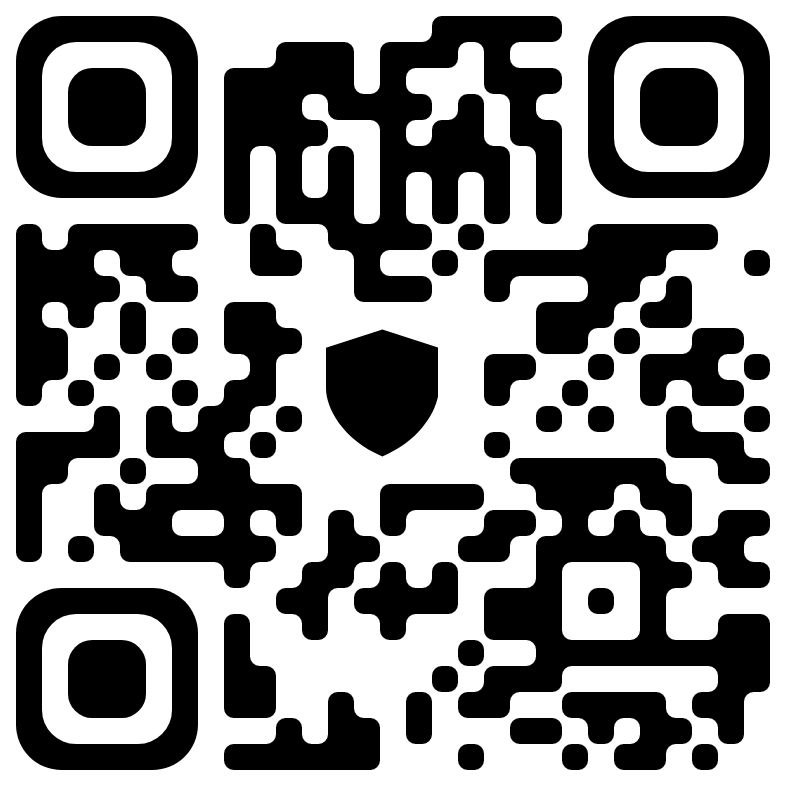
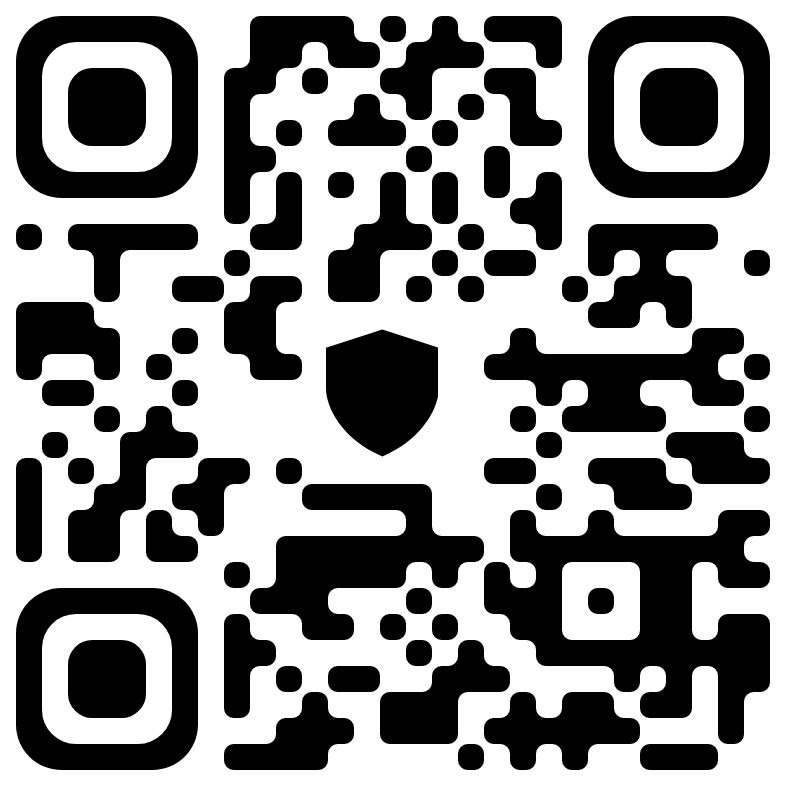
Updates

Changed region(s): [[0.0, 0.0, 0.916, 1.0], [0.5802, 0.0, 0.7328, 0.1221], [0.855, 0.5802, 0.916, 0.6412]]

diff --git a/src/utils/fund.js b/src/utils/fund.js
@@ -7,15 +7,15 @@ export const wallet = [
     title: "Bitcoin",
     image: BTC,
     network: "BTC",
-    address: "bc1qnqd2dlh3n3hl3cd4enhzaa60chkktvgceun5e7",
-    link: "https://link.trustwallet.com/send?coin=0&address=bc1qnqd2dlh3n3hl3cd4enhzaa60chkktvgceun5e7"
+    address: "bc1qn95u39gm3nwhtk3h6kfqggmalmfps0fas9kl6y",
+    link: "https://link.trustwallet.com/send?coin=0&address=bc1qn95u39gm3nwhtk3h6kfqggmalmfps0fas9kl6y"
   },
   {
     id: 2,
     title: "USDT",
     image: USDT,
     network: "TRC20",
-    address: "TX82xu52MmFd6vQM6jVgmqvZDQfo5Yi7wR",
-    link: "https://link.trustwallet.com/send?coin=195&address=TX82xu52MmFd6vQM6jVgmqvZDQfo5Yi7wR&token_id=TR7NHqjeKQxGTCi8q8ZY4pL8otSzgjLj6t"
+    address: "TGttAhMqirBUx2938atn5yhSniUFqpNFTA",
+    link: "https://link.trustwallet.com/send?coin=195&address=TGttAhMqirBUx2938atn5yhSniUFqpNFTA&token_id=TR7NHqjeKQxGTCi8q8ZY4pL8otSzgjLj6t"
   }
 ];
